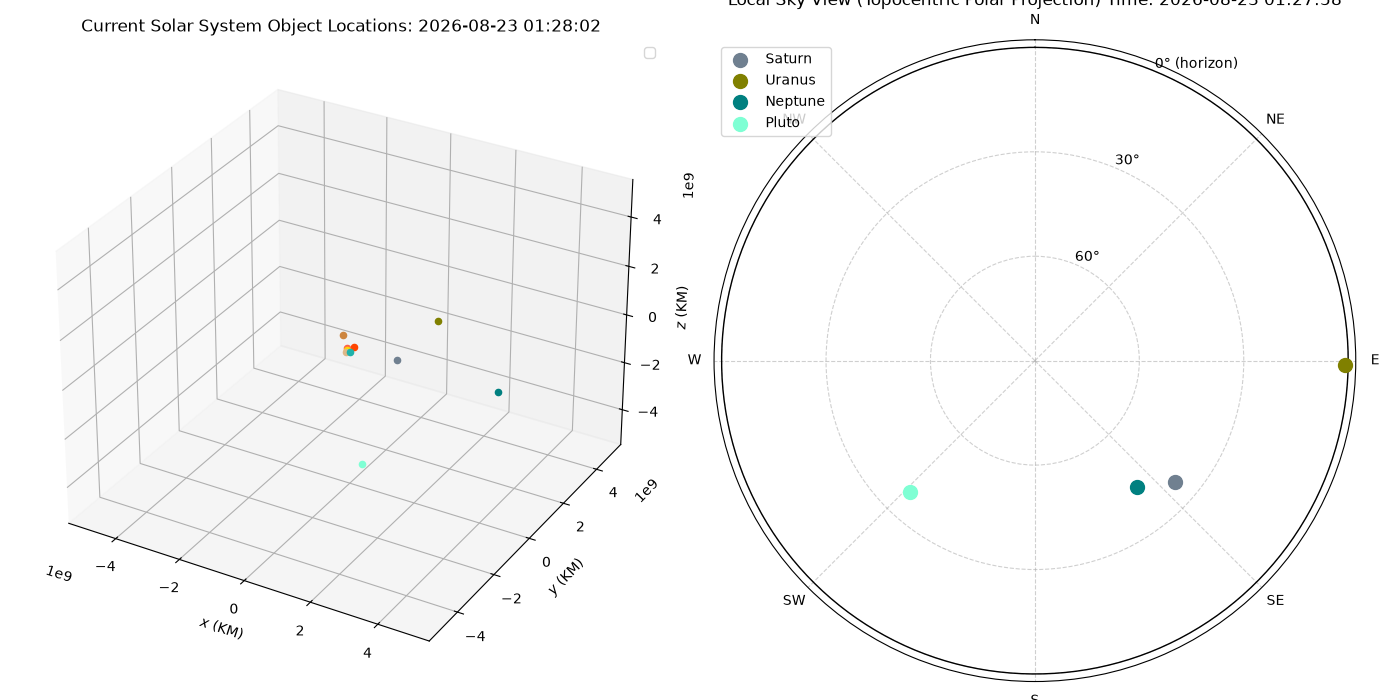
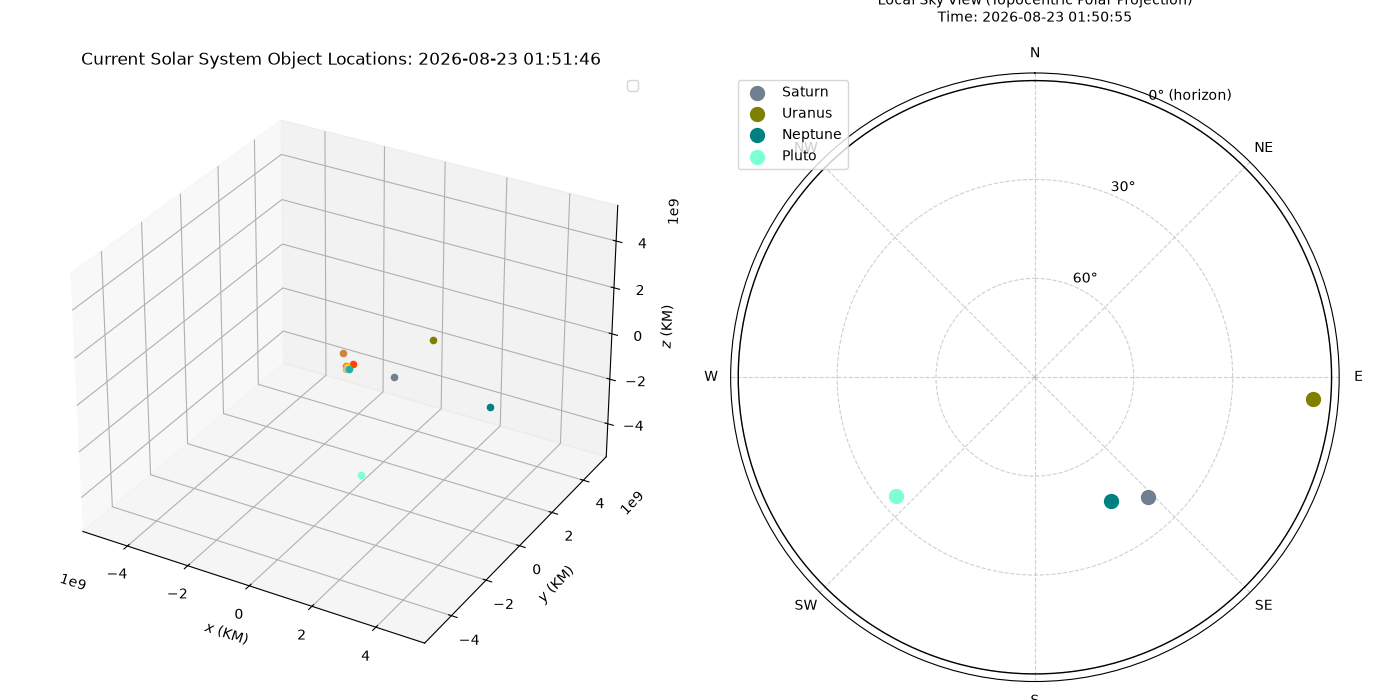
update graph formatting

diff --git a/sky_map.py b/sky_map.py
@@ -80,9 +80,13 @@ def sky_plot(
 
     time = datetime.now().strftime("%Y-%m-%d %H:%M:%S")
 
-    plt.title(f"Local Sky View (Topocentric Polar Projection) Time: {time}")
+    ax.set_title(
+        f"Local Sky View (Topocentric Polar Projection)\nTime: {time}",
+        pad=18,
+        fontsize=10,
+    )
     plt.grid(True, linestyle='--', alpha=0.6)
-    plt.tight_layout()
+    ax.figure.tight_layout()
     # plt.show()
 
 

diff --git a/main.py b/main.py
@@ -90,8 +90,8 @@ def main() -> None:
             fig.canvas.flush_events()
             plt.pause(0.01)
 
-        # fig.savefig("SolarSystemObjLocations.png")
-        # print("Saved graph to SolarSystemObjLocations.png")
+        fig.savefig("SolarSystemObjLocations.png")
+        print("Saved graph to SolarSystemObjLocations.png")
 
         if not continue_running:
             break
